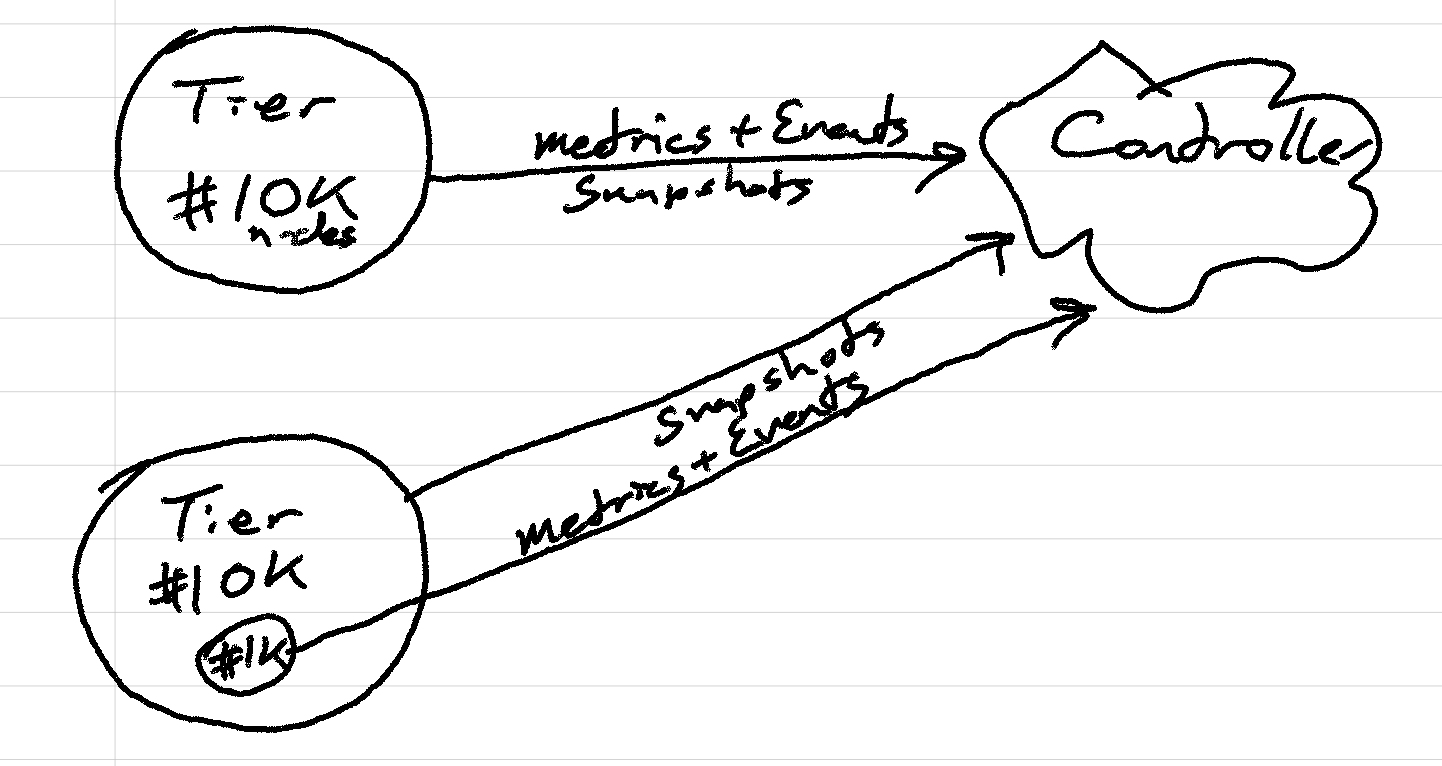
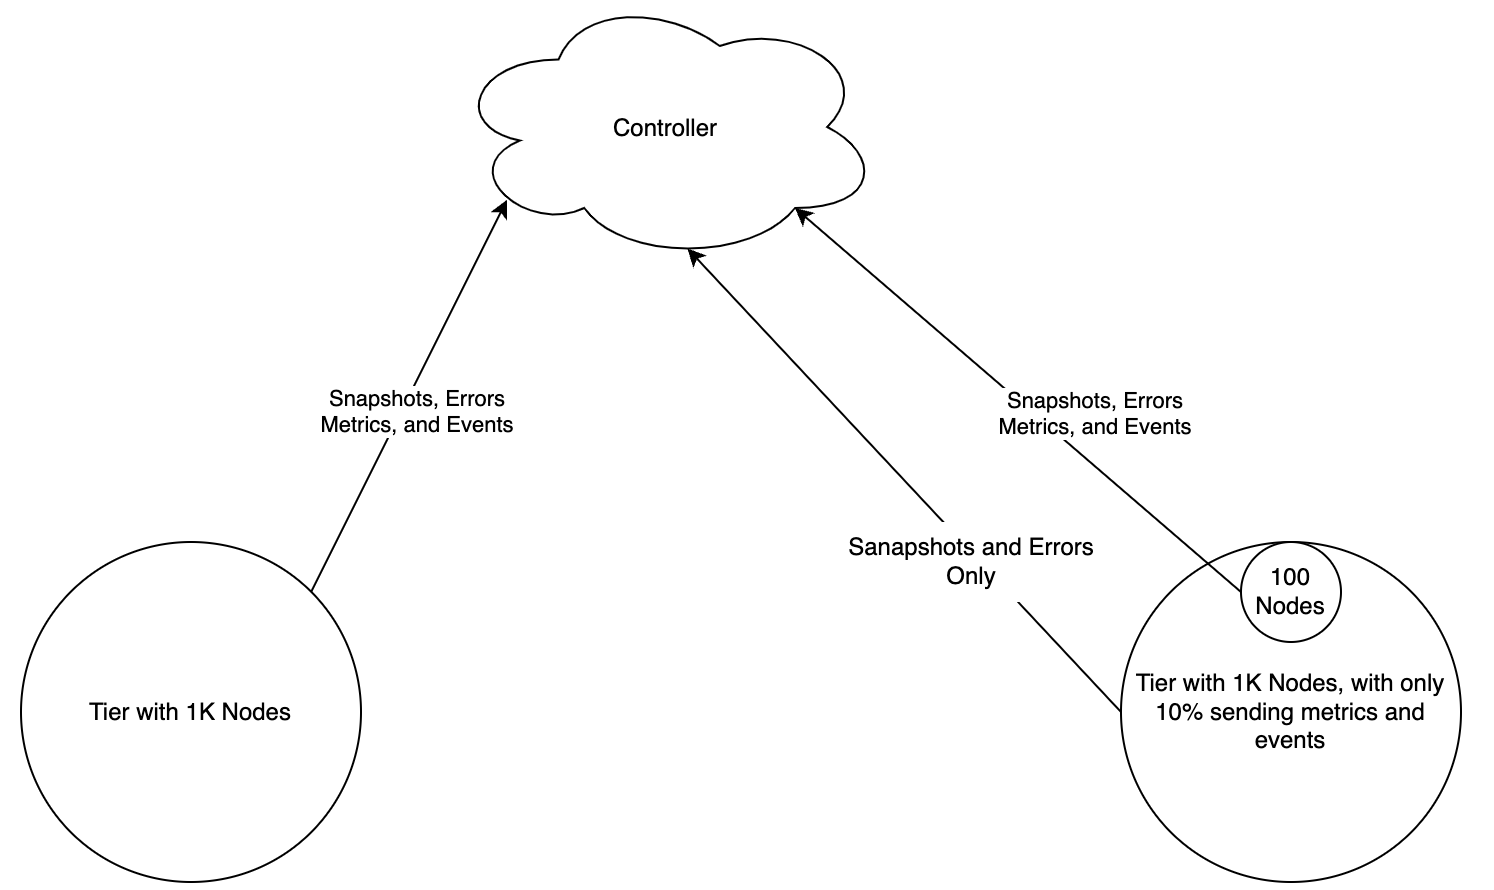
description and overview updated

diff --git a/README.md b/README.md
@@ -3,7 +3,11 @@
 [![published](https://static.production.devnetcloud.com/codeexchange/assets/images/devnet-published.svg)](https://developer.cisco.com/codeexchange/github/repo/jbsouthe/AppDynamics-Statistical-Dynamic-Service)
 [Github Link To This Repo](https://github.com/jbsouthe/AppDynamics-Statistical-Dynamic-Service)
 
-This extension allows the AppDynamics Java Agent to decide on startup whether it should send metrics to the controller. In very large tiers, this data is not needed because a sample can be used to estimate actual metrics and support higher agent loads.
+This extension allows the AppDynamics Java Agent to decide on startup whether it should send metrics to the controller. 
+In very large tiers, this data is not needed because a sample can be used to estimate actual metrics and support higher agent loads.
+In tiers with 100 or more agents, the metrics reported are usually very similar in definition and volume, this means we are ingesting duplicate data that is not significantly different per node.
+To handle this more elegantly, this plugin proposes to disable a large number of nodes in the total population and instead calculate the metric values from the smaller sample size of nodes.
+In a hypothetical population of 1000 nodes, if we select a percentage of 10% to send data, we can take the data received and multiply it by 100/10 == 10 to calculate the missing data through linear extrapolation. 
 
 ![crude diagram](doc-images/overview.png)
 
